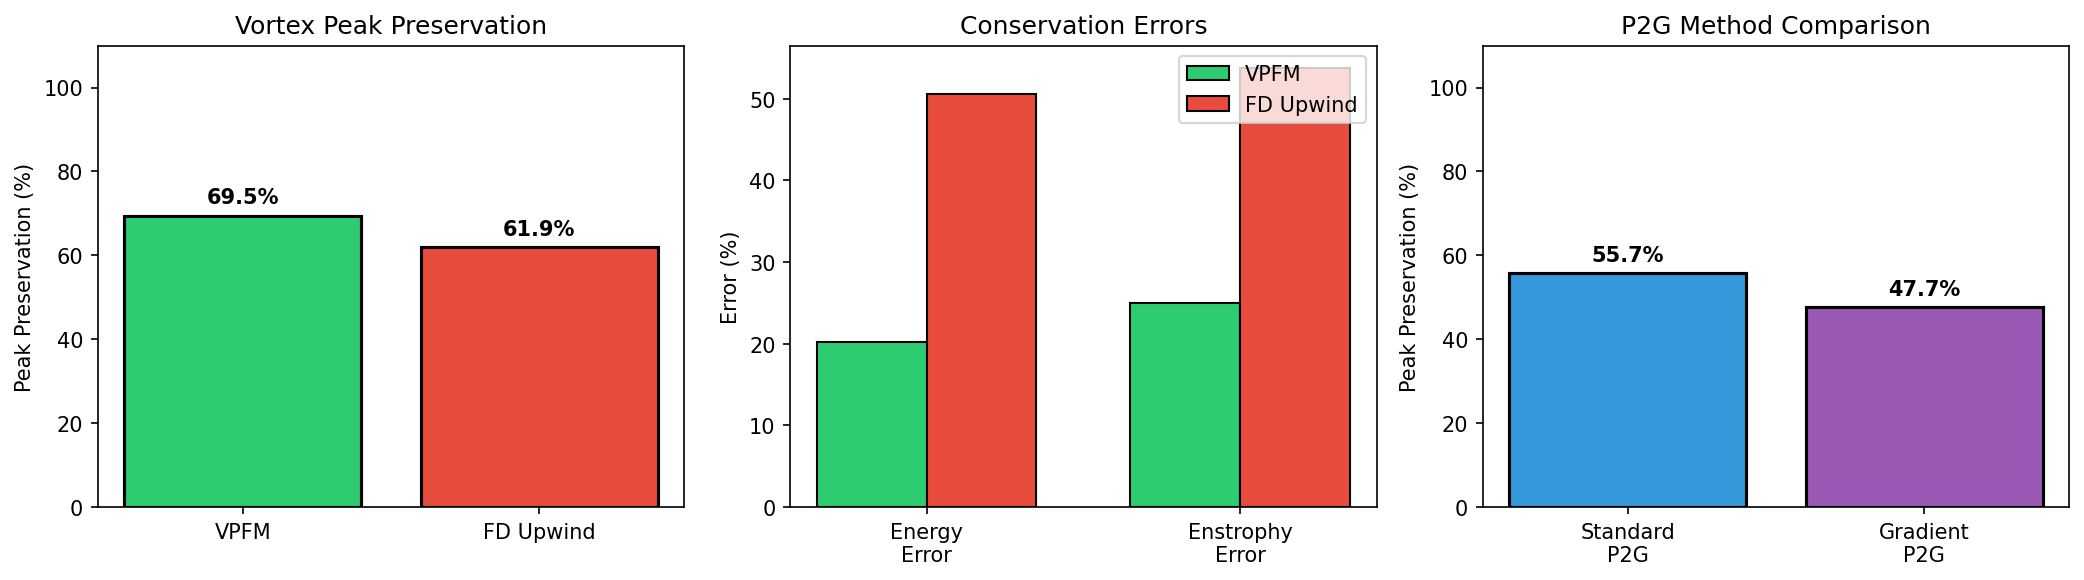
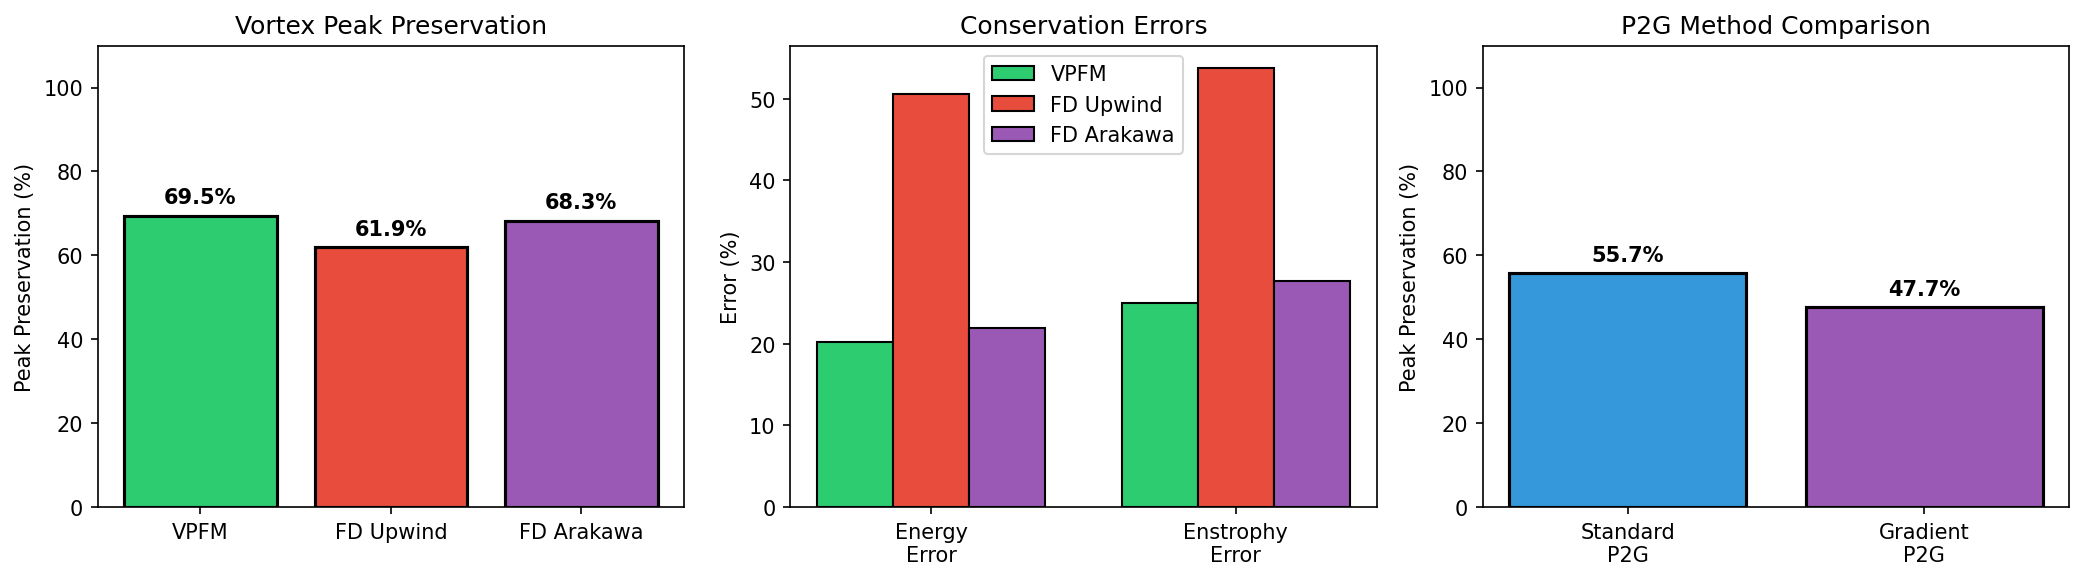
Update README and refresh benchmark images

diff --git a/README.md b/README.md
@@ -15,8 +15,9 @@ This project demonstrates the VPFM method's advantages for plasma turbulence sim
 - **Energy/enstrophy drift**: Lower than the upwind FD baseline in included benchmarks
 - **Linear HW validation**: Dispersion test included in `tests/linear_validation/test_dispersion.py`
 - **Kadoch spectral benchmark scaffold**: Scripts + diagnostics in `tests/kadoch_benchmark`
-- **GPU kernels (experimental)**: Optional MLX/CuPy kernels and FFT microbenchmarks (not wired into the full timestep)
-- **3D extension (prototype)**: 3D VPFM with simple parallel dynamics, not yet validated
+- **MLX backend (experimental)**: Poisson/velocity + quadratic P2G/G2P + flow-map steps can use MLX in `Simulation`
+- **GPU kernels (experimental)**: Optional MLX/CuPy kernels and FFT microbenchmarks (CuPy not wired into full timestep)
+- **3D extension (experimental)**: 3D VPFM with simple parallel dynamics, not yet validated
 
 ### The Mathematical Isomorphism
 
@@ -61,8 +62,8 @@ Features:
 
 ### VPFM vs Finite Difference
 
-Benchmarks compare against the included first-order upwind FD baseline.
-Numbers below are from `examples/benchmark_features.py` on a small grid; re-run the script to regenerate.
+Benchmarks compare against the included FD baselines (upwind and Arakawa).
+Numbers below are from `examples/benchmark_features.py`; the Arakawa baseline uses a smaller dt and mild viscosity for stability (see script).
 
 | Metric | VPFM | FD Upwind | VPFM Advantage |
 |--------|------|-----------|----------------|
@@ -70,21 +71,39 @@ Numbers below are from `examples/benchmark_features.py` on a small grid; re-run 
 | Energy error | 20.16% | 50.53% | **2.5x** |
 | Enstrophy error | 25.01% | 53.80% | **2.2x** |
 
+### VPFM vs FD Arakawa
+
+| Metric | VPFM | FD Arakawa | VPFM Advantage |
+|--------|------|------------|----------------|
+| Peak preservation | 69.5% | 68.3% | **1.0x** |
+| Energy error | 20.16% | 21.96% | **1.1x** |
+| Enstrophy error | 25.01% | 27.64% | **1.1x** |
+
 ### Flow Map Methods
 
 The dual-scale flow map integrator maintains two timescales to target improved gradient accuracy.
-It is currently a standalone prototype (not wired into `Simulation` yet):
+It is wired into `Simulation` via `use_dual_scale=True`:
+
+```python
+sim = Simulation(
+    nx=128, ny=128, Lx=2*np.pi, Ly=2*np.pi, dt=0.01,
+    use_dual_scale=True,
+    dual_scale_nL=100,
+    dual_scale_nS=20,
+    dual_scale_error_long=3.0,
+    dual_scale_error_short=1.0,
+)
+```
 - **Long map (n_L)**: For vorticity values, reinitialized less frequently
 - **Short map (n_S)**: For gradients, reinitialized more frequently
 
 | Method | Avg Error | Max Error | Reinits |
 |--------|-----------|-----------|---------|
 | Standard | 0.2963 | 0.5381 | 20 |
-| Dual-Scale (prototype) | 1.8065 | 2.8282 | 10S/2L |
+| Dual-Scale (experimental) | 1.8065 | 2.8282 | 10S/2L |
 
-Note: Dual-scale flow maps are implemented as a standalone integrator; benchmarks and
-integration into `Simulation` are still in progress.
-Current benchmark settings show higher errors for dual-scale; treat as experimental.
+Note: Dual-scale flow maps are integrated into `Simulation`, but current benchmark
+settings show higher errors for dual-scale; treat as experimental and tune thresholds.
 
 ### P2G Transfer Methods
 
@@ -111,14 +130,14 @@ Density is carried on particles and transferred to the grid each step for coupli
 
 ### Scope & Caveats
 
-- Benchmarks compare against a first-order upwind FD baseline; higher-order/spectral baselines are future work.
-- Dual-scale flow maps are implemented as a standalone prototype (not yet wired into `Simulation`).
-- GPU support currently covers standalone kernels/FFT microbenchmarks; the main `Simulation` loop is CPU (Numba).
+- Benchmarks compare against upwind and Arakawa FD baselines; the Arakawa case uses a smaller dt and mild viscosity for stability in `examples/benchmark_features.py`.
+- Dual-scale flow maps are integrated into `Simulation` but remain sensitive to threshold tuning.
+- MLX accelerates Poisson/velocity, quadratic P2G/G2P, and flow-map updates; non-quadratic kernels fall back to CPU, and CuPy remains kernels-only.
 - HW source terms are explicit; high α requires smaller dt or an IMEX scheme (not implemented yet).
 - Kadoch spectral benchmarks are scaffolded but not yet validated against the published slopes.
 - Reinitialization thresholds and particle density strongly affect diffusion; tune for long-time accuracy.
-- Gradient-enhanced P2G is experimental; performance can be case-dependent.
-- The 3D extension is a prototype without validation cases.
+- Gradient-enhanced P2G is experimental and currently quadratic-kernel only; performance can be case-dependent.
+- The 3D extension is experimental without validation cases.
 
 ## Installation
 
@@ -147,6 +166,7 @@ sim = Simulation(
     nx=128, ny=128, Lx=2*np.pi, Ly=2*np.pi, dt=0.01,
     kernel_order='quadratic',  # 'linear', 'quadratic', or 'cubic'
     track_hessian=True,        # Track Hessian for gradient accuracy
+    backend='cpu',             # or 'mlx' for quadratic-kernel MLX acceleration
 )
 
 # Set initial condition (Gaussian vortex)
@@ -175,6 +195,7 @@ sim = Simulation(
     mu=1e-4,        # Hyperviscosity
     D=1e-4,         # Density diffusion
     nu_sheath=0.0,  # Sheath damping (parallel losses)
+    backend='cpu',  # or 'mlx' for quadratic-kernel MLX acceleration
 )
 
 # Set initial conditions for vorticity and density
@@ -234,6 +255,12 @@ python examples/run_turbulence.py
 
 # Kelvin-Helmholtz instability
 python examples/run_kelvin_helmholtz.py
+
+# Dual-scale flow map demo
+python examples/run_dual_scale.py
+
+# 3D VPFM demo (experimental)
+python examples/run_3d_demo.py
 
 # Full Hasegawa-Wakatani turbulence
 python examples/run_hasegawa_wakatani.py
@@ -322,22 +349,23 @@ Typical experimental values:
 |---------|--------|
 | Hasegawa-Mima equation | ✅ |
 | Hasegawa-Wakatani equation | ✅ |
-| Arakawa enstrophy conservation | ⚠ (utility function, not wired into VPFM) |
+| Arakawa enstrophy conservation | ✅ (FD baseline `scheme='arakawa'`) |
 | B-spline interpolation kernels | ✅ |
 | RK4 Jacobian evolution | ✅ |
 | Hessian tracking | ✅ |
 | Adaptive reinitialization | ✅ |
-| **Dual-scale flow maps (n_L/n_S)** | ⚠ (standalone prototype) |
-| **Gradient-enhanced P2G transfer** | ✅ |
-| **Adaptive time stepping** | ✅ |
+| **Dual-scale flow maps (n_L/n_S)** | ✅ (experimental) |
+| **Gradient-enhanced P2G transfer** | ✅ (experimental; quadratic kernels) |
+| **Adaptive time stepping** | ✅ (CFL-based) |
 | **Kelvin-Helmholtz test case** | ✅ |
 | Sheath damping term (ν_sheath) | ✅ |
 | Virtual probe diagnostics | ✅ |
 | Blob detection | ✅ |
 | Zonal flow analysis | ✅ |
 | Numba JIT acceleration | ✅ |
-| GPU acceleration (MLX/CuPy) | ⚠ (kernels/FFT microbenchmarks) |
-| 3D extension | ⚠ (prototype) |
+| GPU acceleration (MLX, quadratic kernels) | ✅ |
+| CUDA kernels (CuPy) | ✅ (standalone kernels) |
+| 3D extension | ✅ (experimental) |
 
 ## Performance
 
@@ -359,8 +387,9 @@ python examples/benchmark_numba.py
 ### GPU Acceleration
 
 GPU kernels are available for P2G/G2P, Jacobian RHS, and FFT/Poisson microbenchmarks.
-The main `Simulation` loop currently runs on CPU (Numba); use the GPU kernels directly
-or the benchmark scripts for experimentation.
+`Simulation(backend='mlx')` now accelerates Poisson/velocity, quadratic P2G/G2P, and
+flow-map updates on Apple Silicon. Non-quadratic kernels fall back to CPU; CuPy
+remains standalone kernels only.
 
 **Apple Silicon (M1/M2/M3):**
 ```bash
@@ -384,15 +413,18 @@ print("CUDA available:", check_cuda_available())
 
 **MLX Performance (Apple Silicon, microbenchmarks):**
 
+Sample results from `examples/benchmark_mlx.py` (your numbers will vary):
+
 | Operation | Grid/Particles | CPU (Numba) | MLX (Metal) | Speedup |
 |-----------|----------------|-------------|-------------|---------|
-| 2D FFT | 256×256 | 0.30 ms | 0.14 ms | 2.1x |
-| 2D FFT | 1024×1024 | 8.2 ms | 0.6 ms | **13.6x** |
-| Poisson Solver | 512×512 | 5.3 ms | 0.8 ms | 6.8x |
-| Poisson Solver | 1024×1024 | 29.1 ms | 1.1 ms | **26.9x** |
-| Element-wise | 1024×1024 | 11.6 ms | 0.5 ms | **23.8x** |
+| P2G transfer | 16,384 / 128×128 | 0.19 ms | 0.83 ms | 0.2x |
+| G2P transfer | 16,384 / 128×128 | 0.16 ms | 0.43 ms | 0.4x |
+| Jacobian RHS | 16,384 particles | 0.114 ms | 0.561 ms | 0.2x |
+| 2D FFT | 256×256 | 0.384 ms | 0.169 ms | 2.3x |
+| 2D FFT | 512×512 | 1.777 ms | 0.235 ms | 7.6x |
 
-MLX excels for large grids (256×256+). For smaller problems, CPU (Numba) is faster due to kernel launch overhead.
+MLX helps most for FFT-heavy steps at larger grids (256×256+). For P2G/G2P and Jacobian updates, the CPU
+path is faster at these sizes due to scatter/gather overhead.
 
 Run MLX benchmark:
 ```bash
@@ -401,7 +433,7 @@ python examples/benchmark_mlx.py
 
 ### 3D Simulation
 
-The 3D extension is a prototype and is not yet validated against standard 3D drift-wave benchmarks.
+The 3D extension is experimental and is not yet validated against standard 3D drift-wave benchmarks.
 
 For 3D turbulence with parallel dynamics:
 
